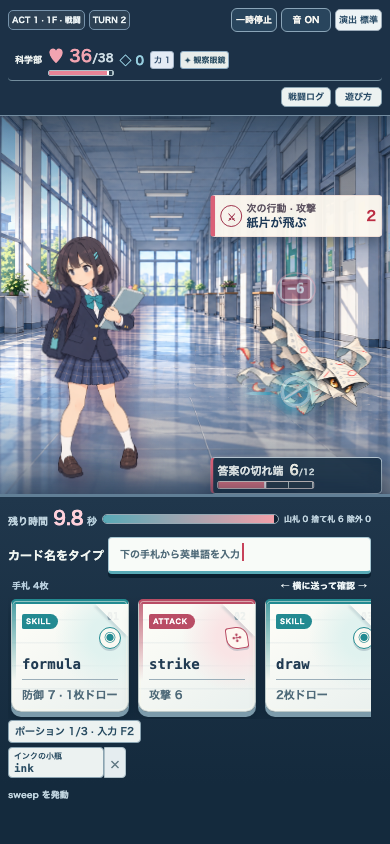
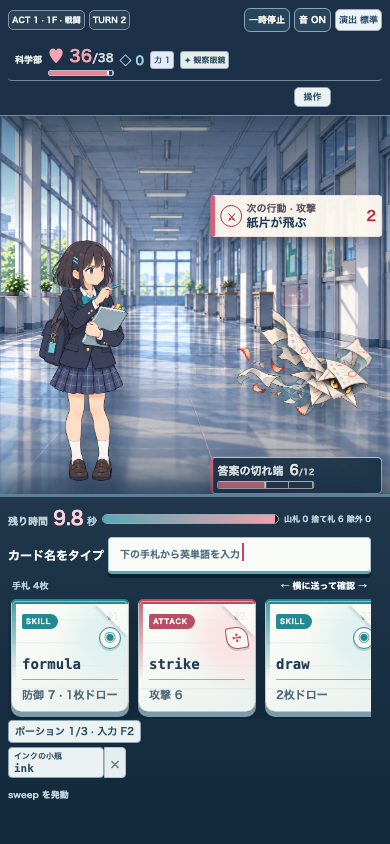
docs: record final battle cue review on integrated HUD

diff --git a/src/ui/result-fx.ts b/src/ui/result-fx.ts
@@ -5,7 +5,7 @@ export type ResultFxMark = { xPercent: number; kind: "damage" | "heal" | "block"
 export type ResultFx = { startedAtMs: number; marks: readonly ResultFxMark[] };
 
 const statusVisual: Record<string, { name: string; kind: "buff" | "debuff" }> = {
-  strength: { name: "力", kind: "buff" }, barrier: { name: "結界", kind: "buff" },
+  strength: { name: "力", kind: "buff" }, dexterity: { name: "敏捷", kind: "buff" }, barrier: { name: "結界", kind: "buff" },
   focus: { name: "集中", kind: "buff" }, thorns: { name: "反撃", kind: "buff" },
   weak: { name: "弱体", kind: "debuff" }, vulnerable: { name: "脆弱", kind: "debuff" },
   frail: { name: "虚弱", kind: "debuff" }, poison: { name: "毒", kind: "debuff" },

diff --git a/docs/art/issue177-motion-review.md b/docs/art/issue177-motion-review.md
@@ -1,0 +1,33 @@
+# #177 戦闘の局所演出と位置安定化
+
+## 現象と原因
+
+以前の敵行動時の全体的な揺れは、戦闘画面の下部操作領域を内容に応じた高さで配置していたことが主因だった。#168 でヘッダ・ステージ・操作領域の行高を固定した。今回の調査では、人物の配置枠が画像の幅に依存する別の経路を見つけた。待機・発動・被弾で画像を差し替える際の位置変化を避けるため、1～3人の表示枠を先に固定した。画面全体を動かす演出は入れていない。
+
+## 表示と差し替え範囲
+
+- カード発動と敵のIntent解決後の、実際のHP・ブロック増減を対象の上に表示する。倒れた敵も解決前の位置に短時間だけ結果を残す。
+- 強化と状態異常は上向き/下向きの形、色、名称、増分で区別する。期限切れで減る状態は行動の命中表示に混ぜない。
+- 既存の人物ポーズとカードエフェクトに重ねる表示層だけを追加した。カード効果、敵AI、時計、保存形式は変えていない。
+- 低刺激表示と `prefers-reduced-motion` では移動・拡大・リングを止め、結果の数値と色を静止表示する。表示層は入力を遮らない。
+
+## 実画面の確認
+
+専用 Vite/Playwright ポートを使い、PC 1440×900、iPad相当 1024×768、狭幅 390×844 で敵攻撃、カード発動、低刺激表示を操作した。いずれもヘッダ・ステージ・操作領域・人物配置枠の座標と大きさは敵行動の前後で一致した。
+
+| 状態 | PC | iPad相当 | 狭幅 |
+| --- | --- | --- | --- |
+| 敵攻撃 | [画像](previews/issue177-enemy-response-1440.png) | [画像](previews/issue177-enemy-response-1024.png) | [画像](previews/issue177-enemy-response-390.png) |
+| カード発動 | [画像](previews/issue177-card-response-1440.png) | [画像](previews/issue177-card-response-1024.png) | [画像](previews/issue177-card-response-390.png) |
+| 低刺激の防御 | [画像](previews/issue177-quiet-support-1440.png) | [画像](previews/issue177-quiet-support-1024.png) | [画像](previews/issue177-quiet-support-390.png) |
+
+[状態異常の局所表示](previews/issue177-status-response-1024.png) は、科学部のカード `sample` を実際に入力して確認した。
+
+## 検証範囲
+
+- `npm run lint`、`npm run typecheck`、単体97件、統合144件、アート検査、ビルドは通過。
+- 全E2E 96件は最初の実行で94件通過、複数味方の枠幅と手札固定語の前提による2件を修正した。修正箇所を含むE2E 5件は再実行で通過。
+- 最新 `main` のヘッダ統合後、単体/統合の対象6件、E2E 5件、戦闘内ヘルプと時計に関するE2E 3件が通過。PR CIで最終ツリー全体を確認する。
+- Macのブラウザ画面による確認であり、iPad実機でのタッチ・描画確認は未実施。
+
+マップ・履歴の半透明オーバーレイは別Issueで扱う。#29の最終キャラクターアート承認にも代えない。
